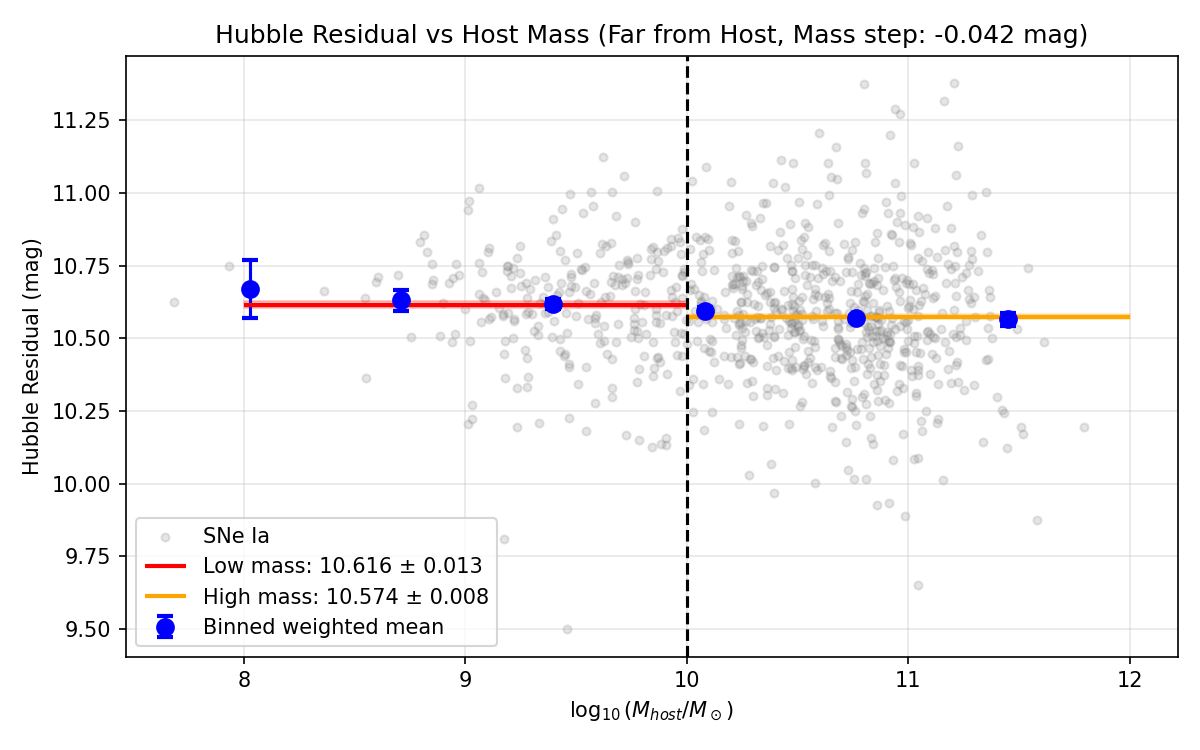
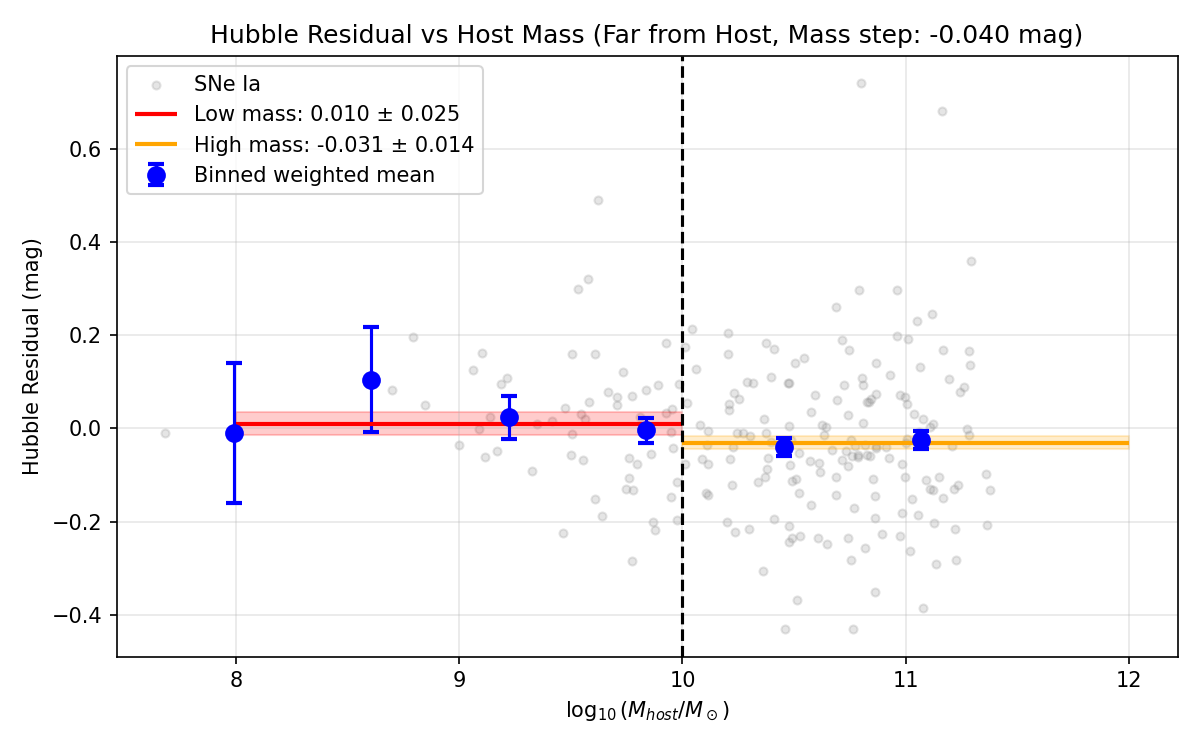
Quick fix
Added missing columns

diff --git a/DES Analysis/DES_angsep_mass_steps.py b/DES Analysis/DES_angsep_mass_steps.py
@@ -9,27 +9,27 @@ from analysis_tools import calculate_physics, get_weighted_stats, run_stats, bin
 hd_path = download_file("4_DISTANCES_COVMAT/DES-Dovekie_HD.csv")
 meta_path = download_file("4_DISTANCES_COVMAT/DES-Dovekie_Metadata.csv")
 df = load_snana_format(hd_path).merge(
-    load_snana_format(meta_path)[['CID', 'HOST_LOGMASS', 'mB', 'x1', 'c', 'HOST_ANGSEP']],
+    load_snana_format(meta_path)[['CID', 'HOST_LOGMASS', 'mB', 'x1', 'c', 'HOST_ANGSEP', "x0"]],
     on='CID'
 )
-df = df[df['PROBIA_BEAMS'] > 0.95].dropna(subset=['zHD', 'mB', 'x1', 'c', 'HOST_LOGMASS', 'MUERR', 'HOST_ANGSEP'])
+df = df[df['PROBIA_BEAMS'] > 0.999999].dropna(subset=['zHD', 'mB', 'x1', 'c', 'HOST_LOGMASS', 'MUERR', 'HOST_ANGSEP', "x0"])
 
 # PHYSICS
 df = calculate_physics(df)
 
 # SPLIT DATA BASED ON ANGULAR SEPARATION
-angsep_threshold = df["HOST_ANGSEP"].median()  # arcminutes
+# angsep_threshold = df["HOST_ANGSEP"].median()  # arcminutes
 
-age_split = df["HOST_ANGSEP"].median()
-close_df = df[df["HOST_ANGSEP"] < angsep_threshold]
-far_df = df[df["HOST_ANGSEP"] >= angsep_threshold]
+# age_split = df["HOST_ANGSEP"].median()
+# close_df = df[df["HOST_ANGSEP"] < angsep_threshold]
+# far_df = df[df["HOST_ANGSEP"] >= angsep_threshold]
 
-# Uncomment to use the lower and upper quartiles instead of the median
-# q25 = df['HOST_ANGSEP'].quantile(0.25)
-# close_df = df[df['HOST_ANGSEP'] <= q25]
+#Uncomment to use the lower and upper quartiles instead of the median
+q25 = df['HOST_ANGSEP'].quantile(0.25)
+close_df = df[df['HOST_ANGSEP'] <= q25]
 
-# q75 = df['HOST_ANGSEP'].quantile(0.75)
-# far_df = df[df['HOST_ANGSEP'] >= q75]
+q75 = df['HOST_ANGSEP'].quantile(0.75)
+far_df = df[df['HOST_ANGSEP'] >= q75]
 
 def compute_mass_step(group_df, title_suffix):
     """Compute and plot Hubble residual vs host mass for a given group."""
@@ -48,18 +48,55 @@ def compute_mass_step(group_df, title_suffix):
     valid = ~np.isnan(bin_means)
 
     # PRINT SUMMARY
-    print("="*60)
+    print("=" * 60)
     print(f"Hubble Residual vs Host Mass ({title_suffix})")
-    print("="*60)
+    print("=" * 60)
+
+    print(f"HOST_LOGMASS range: "
+          f"{group_df['HOST_LOGMASS'].min():.2f} -- "
+          f"{group_df['HOST_LOGMASS'].max():.2f}")
     print(f"Total SNe: {len(group_df)}")
-    print(f"Low-mass hosts (<10):  {len(low_df)}")
-    print(f"High-mass hosts (>=10): {len(high_df)}")
+    print()
+
+    print(f"Low-mass hosts (log M* < 10):  {len(low_df)} SNe")
+    print(f"High-mass hosts (log M* >= 10): {len(high_df)} SNe")
+    print()
+
     print(f"Mean residual (low-mass):  {w_mean_low:+.4f} ± {w_err_low:.4f} mag")
     print(f"Mean residual (high-mass): {w_mean_high:+.4f} ± {w_err_high:.4f} mag")
-    print(f"Mass step (high - low):    {mass_step:+.4f} mag")
-    print(f"Two-sample t-test: t={stats['t_stat']:.4f}, p={stats['t_p']:.6f}")
-    print(f"KS test: KS={stats['ks_stat']:.4f}, p={stats['ks_p']:.6f}")
-    print("="*60)
+    print(f"Mass step (high − low):    {mass_step:+.4f} mag")
+    print()
+
+    print("Two-sample t-test:")
+    print(f"  t-statistic: {stats['t_stat']:.4f}")
+    print(f"  p-value:     {stats['t_p']:.6f}")
+    if stats['t_p'] < 0.05:
+        print("  → Statistically significant (p < 0.05)")
+    else:
+        print("  → Not statistically significant (p ≥ 0.05)")
+    print()
+
+    print("Kolmogorov–Smirnov test:")
+    print(f"  KS statistic: {stats['ks_stat']:.4f}")
+    print(f"  p-value:      {stats['ks_p']:.6f}")
+    if stats['ks_p'] < 0.05:
+        print("  Distributions differ (p < 0.05)")
+    else:
+        print("  Distributions do not differ significantly (p ≥ 0.05)")
+    print()
+
+    print("Binned weighted means:")
+    print(f"  {'Bin center (log M*)':<22}"
+          f"{'Weighted mean (mag)':<22}"
+          f"{'Uncertainty (mag)':<18}")
+    print("-" * 65)
+    for i in np.where(valid)[0]:
+        print(f"  {bin_centers[i]:<22.2f}"
+              f"{bin_means[i]:<22.4f}"
+              f"{bin_errs[i]:<18.4f}")
+
+    print("=" * 60)
+
 
     # PLOT
     fig, ax = plt.subplots(figsize=(8, 5))

diff --git a/DES Analysis/hubble_residual_vs_SFR.py b/DES Analysis/hubble_residual_vs_SFR.py
@@ -7,13 +7,13 @@ from analysis_tools import calculate_physics, get_weighted_stats, run_stats, bin
 # LOAD DATA
 hd_path = download_file("4_DISTANCES_COVMAT/DES-Dovekie_HD.csv")
 meta_path = download_file("4_DISTANCES_COVMAT/DES-Dovekie_Metadata.csv")
-df = load_snana_format(hd_path).merge(load_snana_format(meta_path)[['CID', 'HOST_LOGSFR', 'mB', 'x1', 'c']], on='CID')
-df = df[df['PROBIA_BEAMS'] > 0.999999].dropna(subset=['zHD', 'mB', 'x1', 'c', 'HOST_LOGSFR', 'MUERR'])
+df = load_snana_format(hd_path).merge(load_snana_format(meta_path)[['CID', 'HOST_LOGSFR', 'mB', 'x1', 'c', "x0"]], on='CID')
+df = df[df['PROBIA_BEAMS'] > 0.95].dropna(subset=['zHD', 'mB', 'x1', 'c', 'HOST_LOGSFR', 'MUERR', "x0"])
 
 # PHYSICS
 df = calculate_physics(df)
 
-# SFR STEP (SPLIT AT MEDIAN)
+# SFR STEP 
 sfr_split = df['HOST_LOGSFR'].median()
 low_df = df[df['HOST_LOGSFR'] < sfr_split]
 high_df = df[df['HOST_LOGSFR'] >= sfr_split]
@@ -72,7 +72,7 @@ ax.scatter(df['HOST_LOGSFR'], df['hubble_residual'], alpha=0.2, color='gray', s=
 ax.errorbar(bin_centers[valid], bin_means[valid], yerr=bin_errs[valid], fmt='o', color='blue',
             capsize=4, capthick=2, markersize=8, label='Binned weighted mean')
 
-# Use actual data limits for horizontal lines
+# horizontal lines
 x_min, x_max = df['HOST_LOGSFR'].min(), df['HOST_LOGSFR'].max()
 ax.hlines(w_mean_low, x_min, sfr_split, colors='red', lw=2, label=f'Low SFR: {w_mean_low:.3f} ± {w_err_low:.3f}')
 ax.hlines(w_mean_high, sfr_split, x_max, colors='orange', lw=2, label=f'High SFR: {w_mean_high:.3f} ± {w_err_high:.3f}')

diff --git a/Euclid Analysis/euclid_mass_step.py b/Euclid Analysis/euclid_mass_step.py
@@ -26,15 +26,15 @@ df_hd = load_snana_format(hd_path)
 df_meta = load_snana_format(meta_path)
 df_hd["CID_num"] = pd.to_numeric(df_hd["CID"], errors="coerce")
 df_hd = df_hd.dropna(subset=["CID_num", "zHD", "MU", "MUERR"]).copy()
-df_hd = df_hd[df_hd["PROBIA_BEAMS"] > 0.95]
+df_hd = df_hd[df_hd["PROBIA_BEAMS"] > 0.999999]
 
 # MERGE EUCLID WITH DES (DES_ID_x = CID)
 df = df_euclid[["DES_ID_x", "HOST_LOGMASS"]].merge(
     df_hd[["CID_num", "CID", "zHD", "MU", "MUERR", "PROBIA_BEAMS"]],
     left_on="DES_ID_x", right_on="CID_num", how="inner"
 )
-df = df.merge(df_meta[["CID", "mB", "x1", "c"]], on="CID", how="left")
-df = df.dropna(subset=["zHD", "mB", "x1", "c", "HOST_LOGMASS", "MUERR"])
+df = df.merge(df_meta[["CID", "mB", "x1", "c", "x0"]], on="CID", how="left")
+df = df.dropna(subset=["zHD", "mB", "x1", "c", "HOST_LOGMASS", "MUERR", "x0"])
 
 # PHYSICS
 df = calculate_physics(df)

diff --git a/Euclid Analysis/euclid_stellarmetallicity.py b/Euclid Analysis/euclid_stellarmetallicity.py
@@ -23,15 +23,15 @@ df_hd = load_snana_format(hd_path)
 df_meta = load_snana_format(meta_path)
 df_hd["CID_num"] = pd.to_numeric(df_hd["CID"], errors="coerce")
 df_hd = df_hd.dropna(subset=["CID_num", "zHD", "MU", "MUERR"]).copy()
-df_hd = df_hd[df_hd["PROBIA_BEAMS"] > 0.95]
+df_hd = df_hd[df_hd["PROBIA_BEAMS"] > 0.999999]
 
 # MERGE EUCLID WITH DES (DES_ID_x = CID)
 df = df_euclid[["DES_ID_x", "METALLICITY"]].merge(
     df_hd[["CID_num", "CID", "zHD", "MU", "MUERR", "PROBIA_BEAMS"]],
     left_on="DES_ID_x", right_on="CID_num", how="inner"
 )
-df = df.merge(df_meta[["CID", "mB", "x1", "c"]], on="CID", how="left")
-df = df.dropna(subset=["zHD", "mB", "x1", "c", "METALLICITY", "MUERR"])
+df = df.merge(df_meta[["CID", "mB", "x1", "c", "x0"]], on="CID", how="left")
+df = df.dropna(subset=["zHD", "mB", "x1", "c", "METALLICITY", "MUERR", "x0"])
 
 # PHYSICS
 df = calculate_physics(df)

diff --git a/Euclid Analysis/euclid_sfhage_step.py b/Euclid Analysis/euclid_sfhage_step.py
@@ -23,15 +23,15 @@ df_hd = load_snana_format(hd_path)
 df_meta = load_snana_format(meta_path)
 df_hd["CID_num"] = pd.to_numeric(df_hd["CID"], errors="coerce")
 df_hd = df_hd.dropna(subset=["CID_num", "zHD", "MU", "MUERR"]).copy()
-df_hd = df_hd[df_hd["PROBIA_BEAMS"] > 0.95]
+df_hd = df_hd[df_hd["PROBIA_BEAMS"] > 0.999999]
 
 # MERGE EUCLID WITH DES (DES_ID_x = CID)
 df = df_euclid[["DES_ID_x", "SFH_AGE"]].merge(
     df_hd[["CID_num", "CID", "zHD", "MU", "MUERR", "PROBIA_BEAMS"]],
     left_on="DES_ID_x", right_on="CID_num", how="inner"
 )
-df = df.merge(df_meta[["CID", "mB", "x1", "c"]], on="CID", how="left")
-df = df.dropna(subset=["zHD", "mB", "x1", "c", "SFH_AGE", "MUERR"])
+df = df.merge(df_meta[["CID", "mB", "x1", "c", "x0"]], on="CID", how="left")
+df = df.dropna(subset=["zHD", "mB", "x1", "c", "SFH_AGE", "MUERR", "x0"])
 
 # PHYSICS
 df = calculate_physics(df)

diff --git a/Euclid Analysis/euclid_sfr_step.py b/Euclid Analysis/euclid_sfr_step.py
@@ -23,15 +23,15 @@ df_hd = load_snana_format(hd_path)
 df_meta = load_snana_format(meta_path)
 df_hd["CID_num"] = pd.to_numeric(df_hd["CID"], errors="coerce")
 df_hd = df_hd.dropna(subset=["CID_num", "zHD", "MU", "MUERR"]).copy()
-df_hd = df_hd[df_hd["PROBIA_BEAMS"] > 0.95]
+df_hd = df_hd[df_hd["PROBIA_BEAMS"] > 0.999999]
 
 # MERGE EUCLID WITH DES (DES_ID_x = CID)
 df = df_euclid[["DES_ID_x", "SFR"]].merge(
     df_hd[["CID_num", "CID", "zHD", "MU", "MUERR", "PROBIA_BEAMS"]],
     left_on="DES_ID_x", right_on="CID_num", how="inner"
 )
-df = df.merge(df_meta[["CID", "mB", "x1", "c"]], on="CID", how="left")
-df = df.dropna(subset=["zHD", "mB", "x1", "c", "SFR", "MUERR"])
+df = df.merge(df_meta[["CID", "mB", "x1", "c", "x0"]], on="CID", how="left")
+df = df.dropna(subset=["zHD", "mB", "x1", "c", "SFR", "MUERR", "x0"])
 
 # PHYSICS
 df = calculate_physics(df)

diff --git a/Euclid Analysis/euclid_sfr_threshhold_pass_both.py b/Euclid Analysis/euclid_sfr_threshhold_pass_both.py
@@ -23,15 +23,15 @@ df_hd = load_snana_format(hd_path)
 df_meta = load_snana_format(meta_path)
 df_hd["CID_num"] = pd.to_numeric(df_hd["CID"], errors="coerce")
 df_hd = df_hd.dropna(subset=["CID_num", "zHD", "MU", "MUERR"]).copy()
-df_hd = df_hd[df_hd["PROBIA_BEAMS"] > 0.95]
+df_hd = df_hd[df_hd["PROBIA_BEAMS"] > 0.999999]
 
 # MERGE EUCLID WITH DES (DES_ID_x = CID)
 df = df_euclid[["DES_ID_x", "SFR"]].merge(
     df_hd[["CID_num", "CID", "zHD", "MU", "MUERR", "PROBIA_BEAMS"]],
     left_on="DES_ID_x", right_on="CID_num", how="inner"
 )
-df = df.merge(df_meta[["CID", "mB", "x1", "c"]], on="CID", how="left")
-df = df.dropna(subset=["zHD", "mB", "x1", "c", "SFR", "MUERR"])
+df = df.merge(df_meta[["CID", "mB", "x1", "c", "x0"]], on="CID", how="left")
+df = df.dropna(subset=["zHD", "mB", "x1", "c", "SFR", "MUERR", "x0"])
 
 # PHYSICS
 df = calculate_physics(df)

diff --git a/Euclid Analysis/euclid_sfr_threshhold_pass_t.py b/Euclid Analysis/euclid_sfr_threshhold_pass_t.py
@@ -30,8 +30,8 @@ df = df_euclid[["DES_ID_x", "SFR"]].merge(
     df_hd[["CID_num", "CID", "zHD", "MU", "MUERR", "PROBIA_BEAMS"]],
     left_on="DES_ID_x", right_on="CID_num", how="inner"
 )
-df = df.merge(df_meta[["CID", "mB", "x1", "c"]], on="CID", how="left")
-df = df.dropna(subset=["zHD", "mB", "x1", "c", "SFR", "MUERR"])
+df = df.merge(df_meta[["CID", "mB", "x1", "c", "x0"]], on="CID", how="left")
+df = df.dropna(subset=["zHD", "mB", "x1", "c", "SFR", "MUERR", "x0"])
 
 # PHYSICS
 df = calculate_physics(df)
